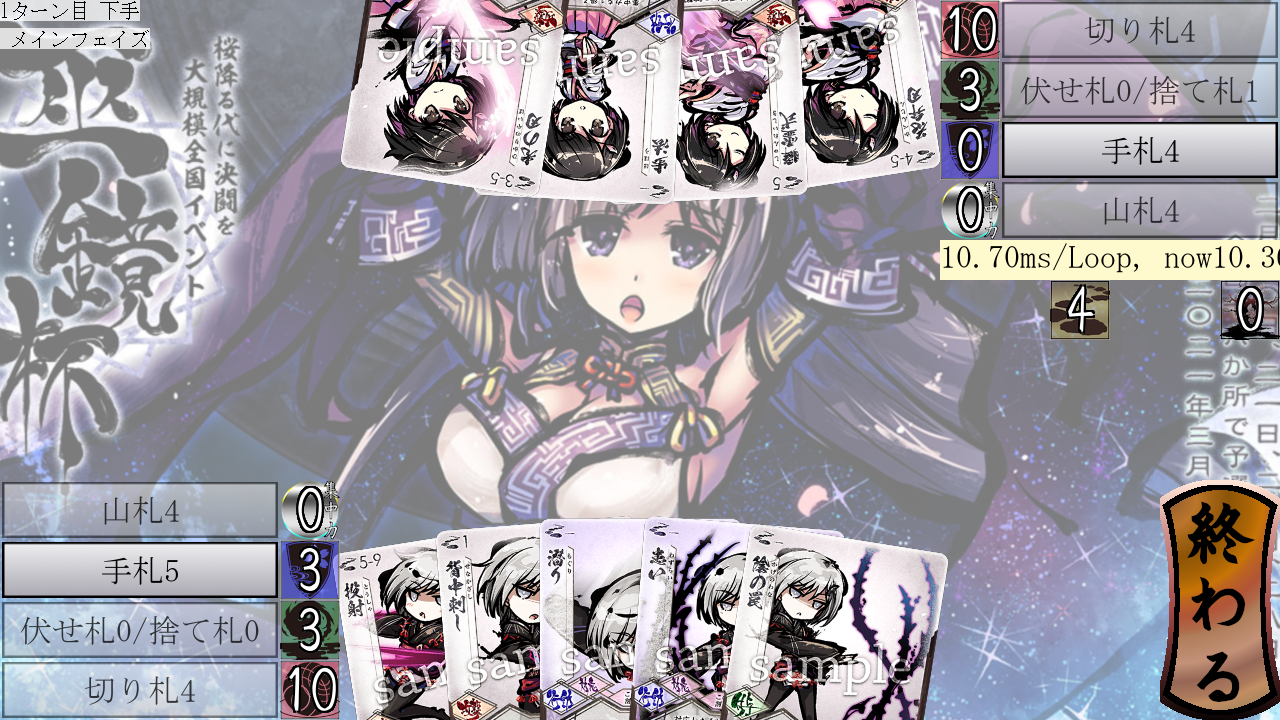
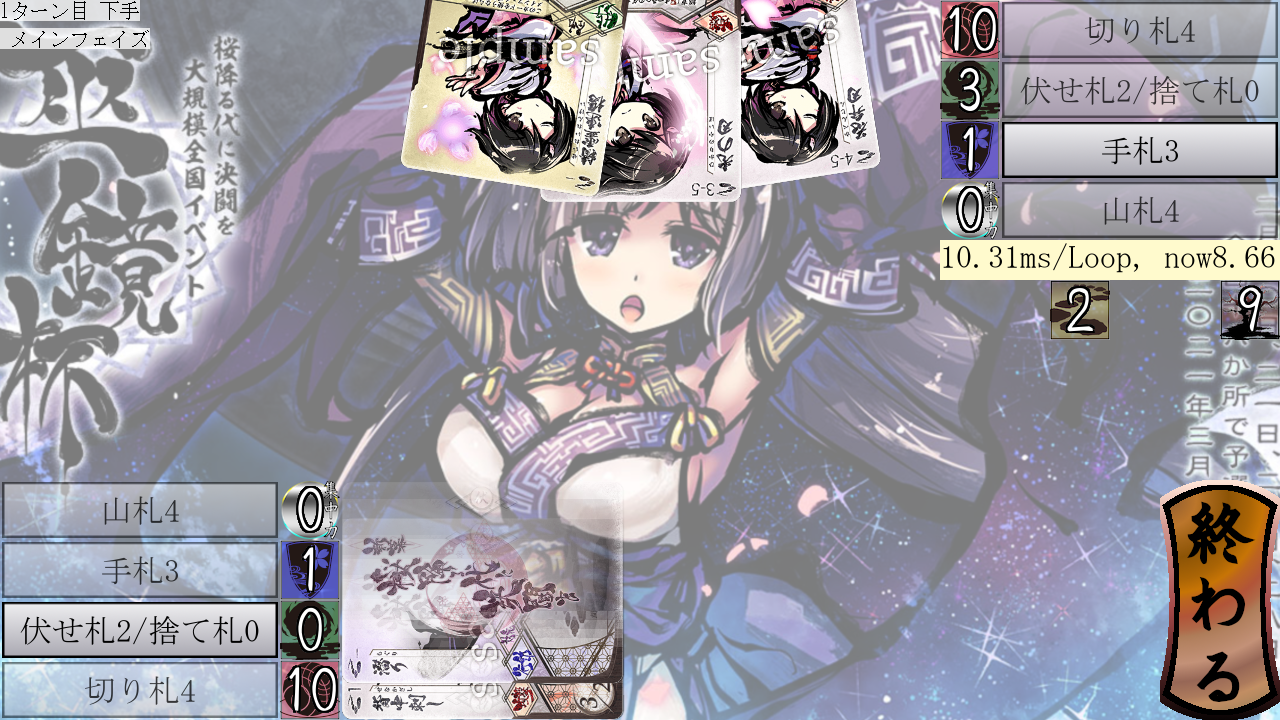
J451:2以上のライフダメージのトリガー場所を確保

diff --git a/mod/card/damage.py b/mod/card/damage.py
@@ -3,7 +3,7 @@ from pygame.surface import Surface
 from pygame.math import Vector2
 from typing import Any
 
-from mod.const import draw_aiharasuu, POP_OK
+from mod.const import draw_aiharasuu, POP_OK, UC_LIFE
 from mod.delivery import Delivery
 from mod.card.card import Card, auto_di
 
@@ -22,6 +22,8 @@ class Damage(Card):
     def kaiketu(self, delivery: Delivery, hoyuusya: int, huda: Any | None = None, code: int = POP_OK) -> None:
         delivery.send_ouka_to_ryouiki(hoyuusya=hoyuusya, from_mine=False, from_code=self.from_code,
                                       to_mine=False, to_code=self.to_code, kazu=self.dmg)
+        if self.dmg >= 2 and self.from_code == UC_LIFE:
+            raise EOFError("2以上のライフダメージ")
 
     def can_damage(self, delivery: Delivery, hoyuusya: int) -> bool:
         return delivery.can_ouka_to_ryouiki(
